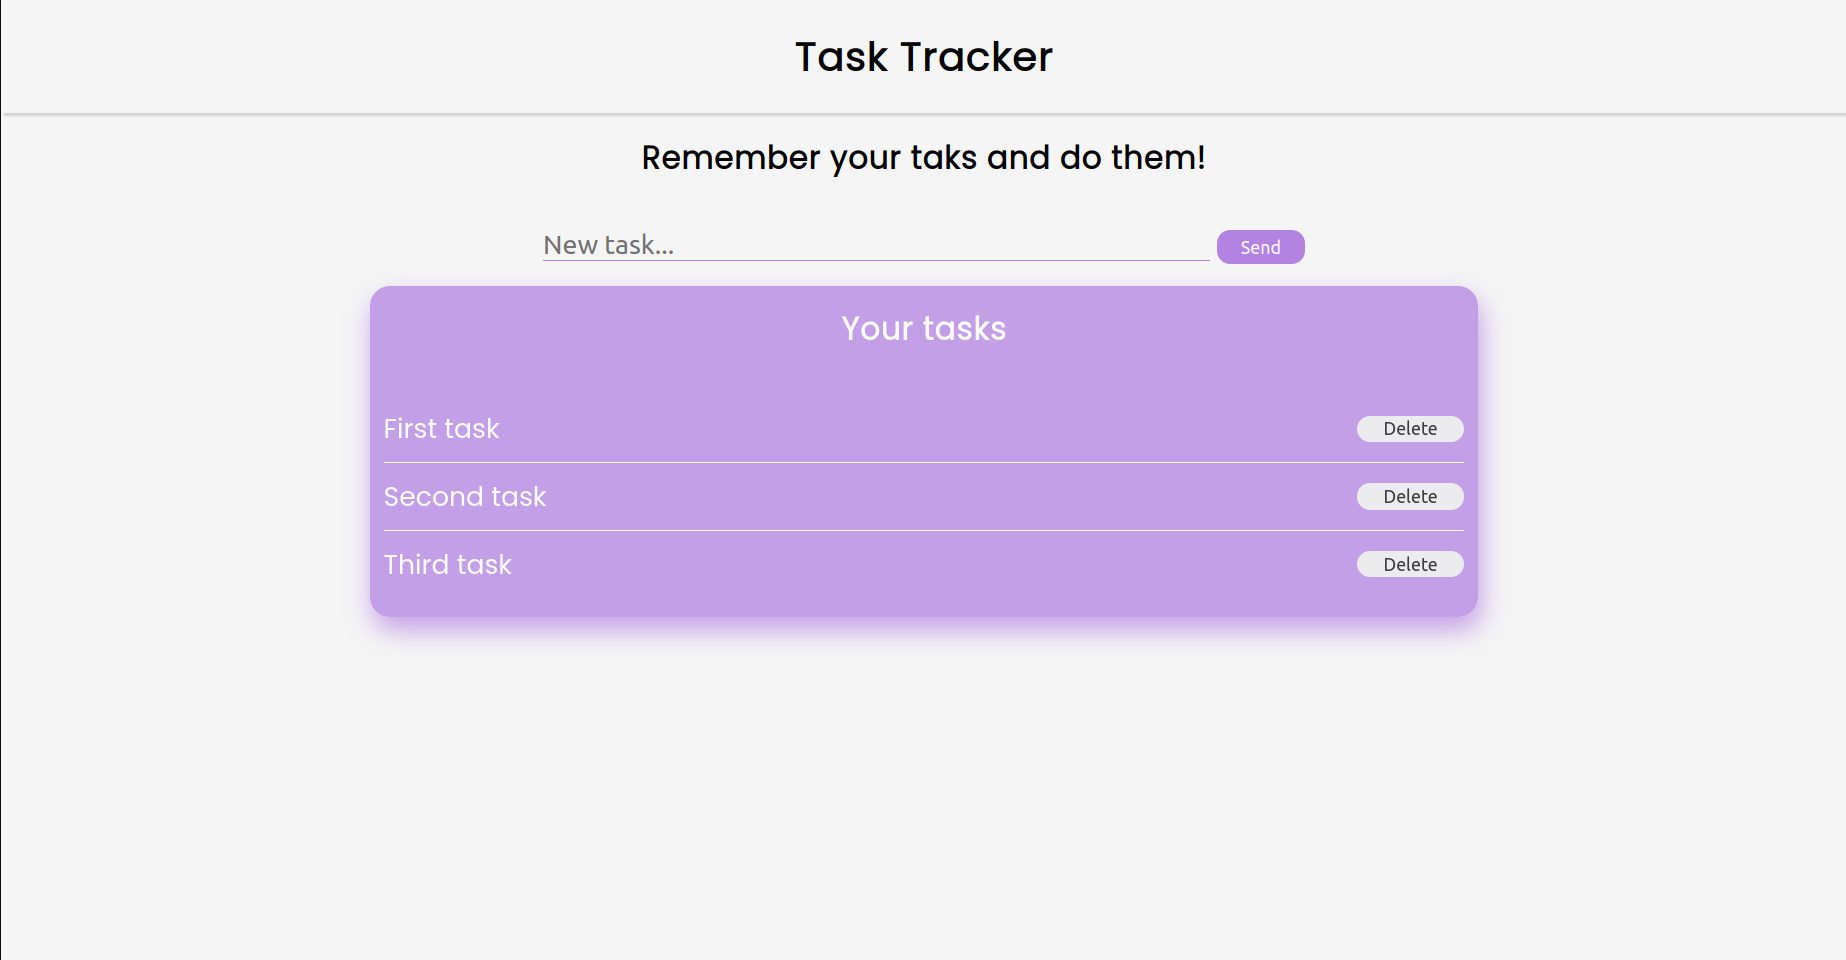
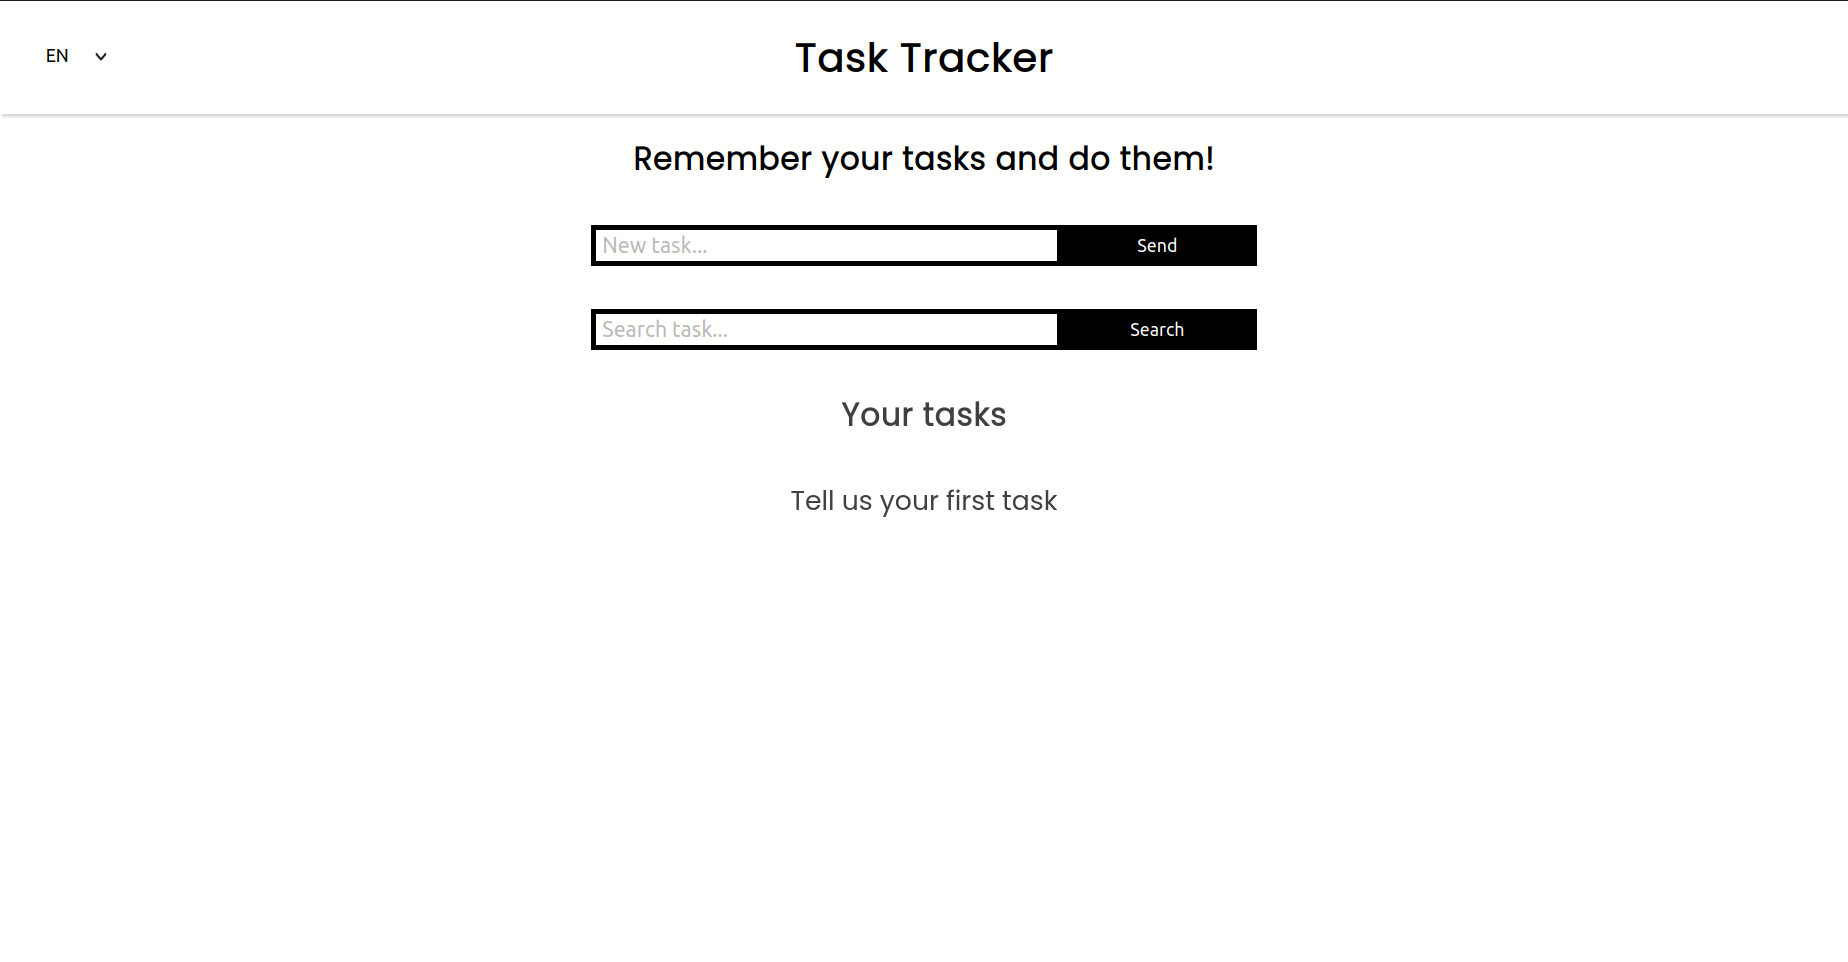
feat: Changes to new info about Task Tracker project.

Changed region(s): [[0.1853, 0.2188, 0.8337, 0.6875], [0.3397, 0.1562, 0.6793, 0.1875], [0.4323, 0.0312, 0.5558, 0.0938]]

diff --git a/src/sections/projects/dataProjects.js b/src/sections/projects/dataProjects.js
@@ -35,7 +35,7 @@ const dataProjects = [
     image: "assets/img/task-tracker-project.png",
     alt: "Image of the Task Tracker project",
     name: "Task Tracker",
-    stacks: ["HTML", "CSS", "JavaScript"],
+    stacks: ["ReactJs", "NextJs", "i18Next"],
     description:
       "Task Tracker is a simple web application designed to help you remember and manage your daily tasks. You can easily add and delete tasks as you perform them.",
     linkGitHub: "https://github.com/BaldezPatrick/task-tracker",
